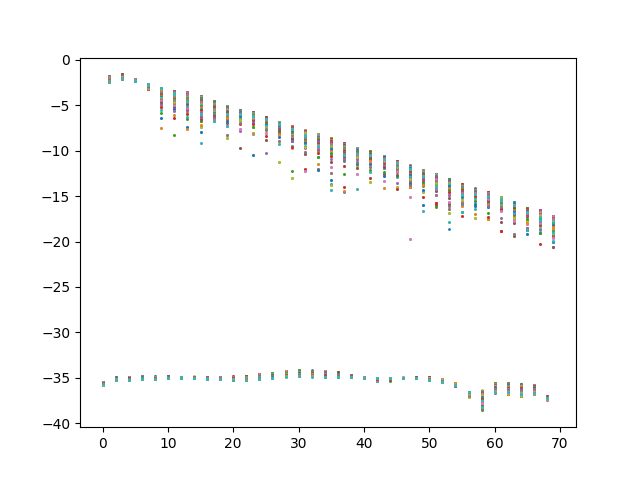
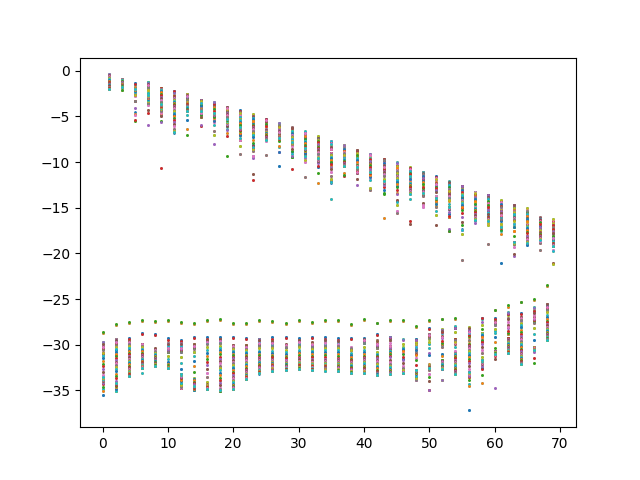
theta with zet & scf 2

diff --git a/theory/Eliashberg/elishberg_2/debug/main_faeb_rewrite.py b/theory/Eliashberg/elishberg_2/debug/main_faeb_rewrite.py
@@ -22,7 +22,7 @@ class parameters:
         self.fmc_max  = 0.05
         self.fmc_min  = 0.0
         self.nfmc  = 1
-        self.nscf = 1
+        self.nscf = 2
 
 class irfunc:
     def __init__(self, Lambda, beta, eps=1e-7):
